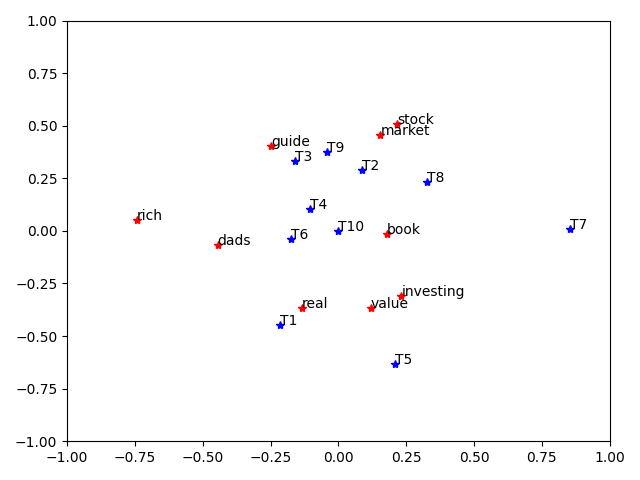
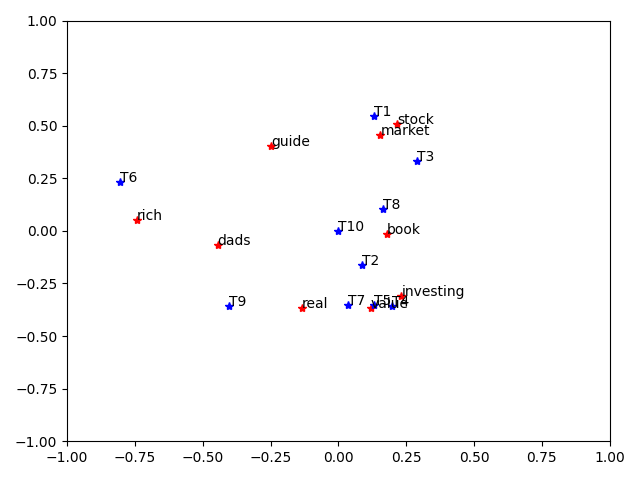
fix: transpose

diff --git a/main.py b/main.py
@@ -1,6 +1,8 @@
 """
-Practice on LSA: (SVD)
+Practice on LSA:
 https://blog.csdn.net/zhzhji440/article/details/47193731?spm=1001.2014.3001.5501
+SVD:
+https://ccjou.wordpress.com/2009/09/01/%E5%A5%87%E7%95%B0%E5%80%BC%E5%88%86%E8%A7%A3-svd/
 """
 
 from cmath import isnan
@@ -87,12 +89,12 @@ class LSA(object):
         self.U, self.S, self.Vt = svd(self.count_matrix)
         if TFIDF == True:
             self.U, self.S, self.Vt = svd(self.TFIDF_matrix)
+        self.V = np.array(self.Vt).transpose() # Remember transpose (SVD)
 
         # 取前三維（沒特別意義，方便視覺化而已）
-        # print(self.Vt) # WHy (10,)?
-        print(self.U[:, :3]) # 單字在語意空間中的座標
-        print(self.S[:3]) # 奇異值
-        print(self.Vt[:, :3]) # 文章在語意空間中的座標
+        # print(self.U[:, :3]) # 單字在語意空間中的座標
+        # print(self.S[:3]) # 奇異值
+        # print(self.V[:, :3]) # 文章在語意空間中的座標
         
         if dim != None:
             self.U = self.U[:, :dim]
@@ -106,14 +108,11 @@ class LSA(object):
         x, y = self.U[:, 1], self.U[:, 2]
         plt.plot(x, y, 'r*')
         for idx, xy in enumerate(zip(x, y)):
-            # print(self.keys)
-            # plt.annotate('(%.2f, %.2f)' % xy, xy=xy)
             plt.annotate(self.keys[idx], xy=xy)
         
-        x, y = self.Vt[:, 1], self.Vt[:, 2]
+        x, y = self.V[:, 1], self.V[:, 2]
         plt.plot(x, y, 'b*')
         for idx, xy in enumerate(zip(x, y)):
-            # plt.annotate("({:.2f}, {:.2f})".format(xy[0], xy[1]), xy=xy)
             plt.annotate("T{}".format(idx+1), xy=xy)
 
         plt.axis([-1,1,-1,1])
@@ -129,9 +128,9 @@ lsa.build()
 # lsa.print_count_matrix()
 
 lsa.TFIDF()
-# lsa.print_TFIDF_matrix()
+lsa.print_TFIDF_matrix()
 
-lsa.do_svd(dim=3, TFIDF=False)
+lsa.do_svd(dim=3, TFIDF=True)
 
 # Draw figure
 lsa.draw_fig() # T10 在 (0,0)
